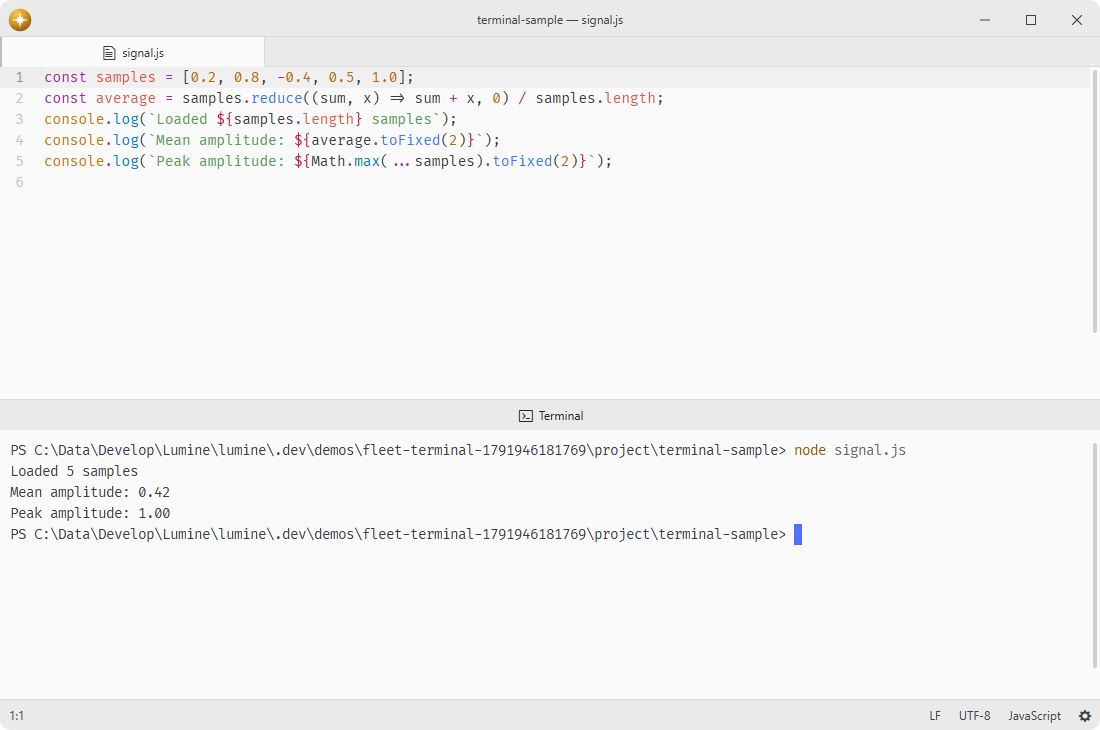
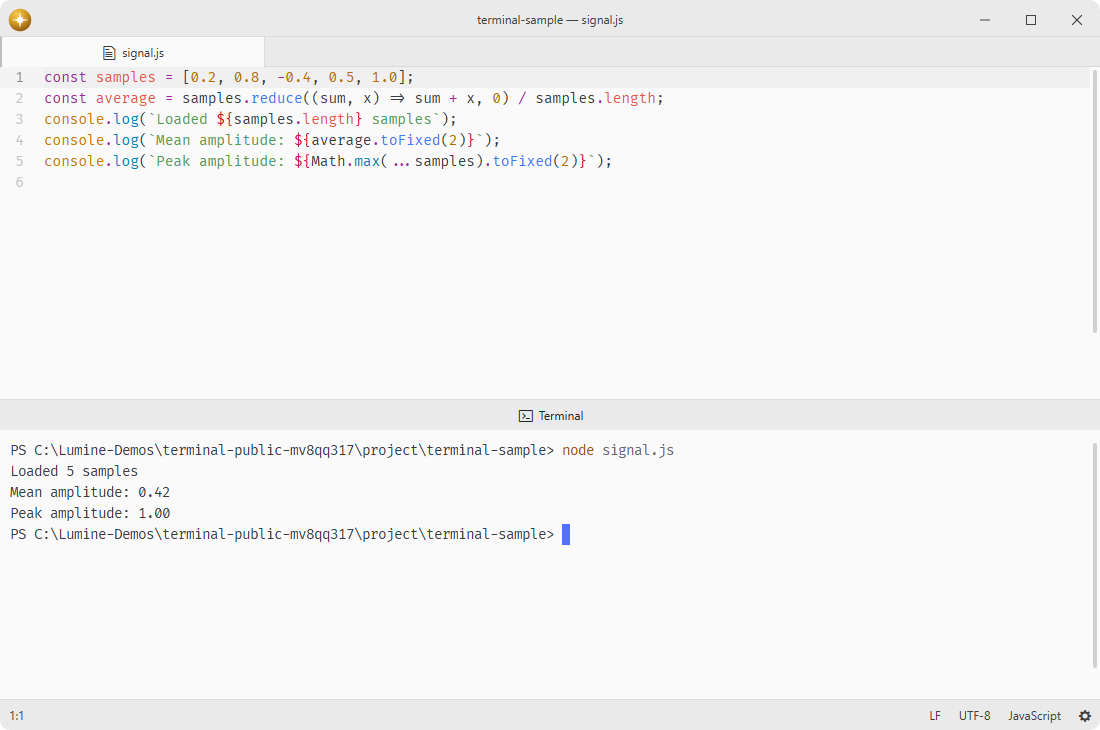
Replace demo screenshot with neutral public fixture paths

Changed region(s): [[0.0618, 0.6027, 0.8345, 0.6329], [0.0618, 0.7233, 0.7418, 0.7534]]

diff --git a/demo.js b/demo.js
@@ -64,4 +64,13 @@ module.exports = {
     lumine.config.unset("terminal.terminal.shell");
     lumine.config.unset("terminal.terminal.args");
   },
+  privacyText({ state }) {
+    const buffer = state.terminal?.element?.terminal?.buffer.active;
+    return buffer
+      ? Array.from(
+          { length: buffer.length },
+          (_, row) => buffer.getLine(row)?.translateToString() || "",
+        ).join("\n")
+      : "";
+  },
 };
